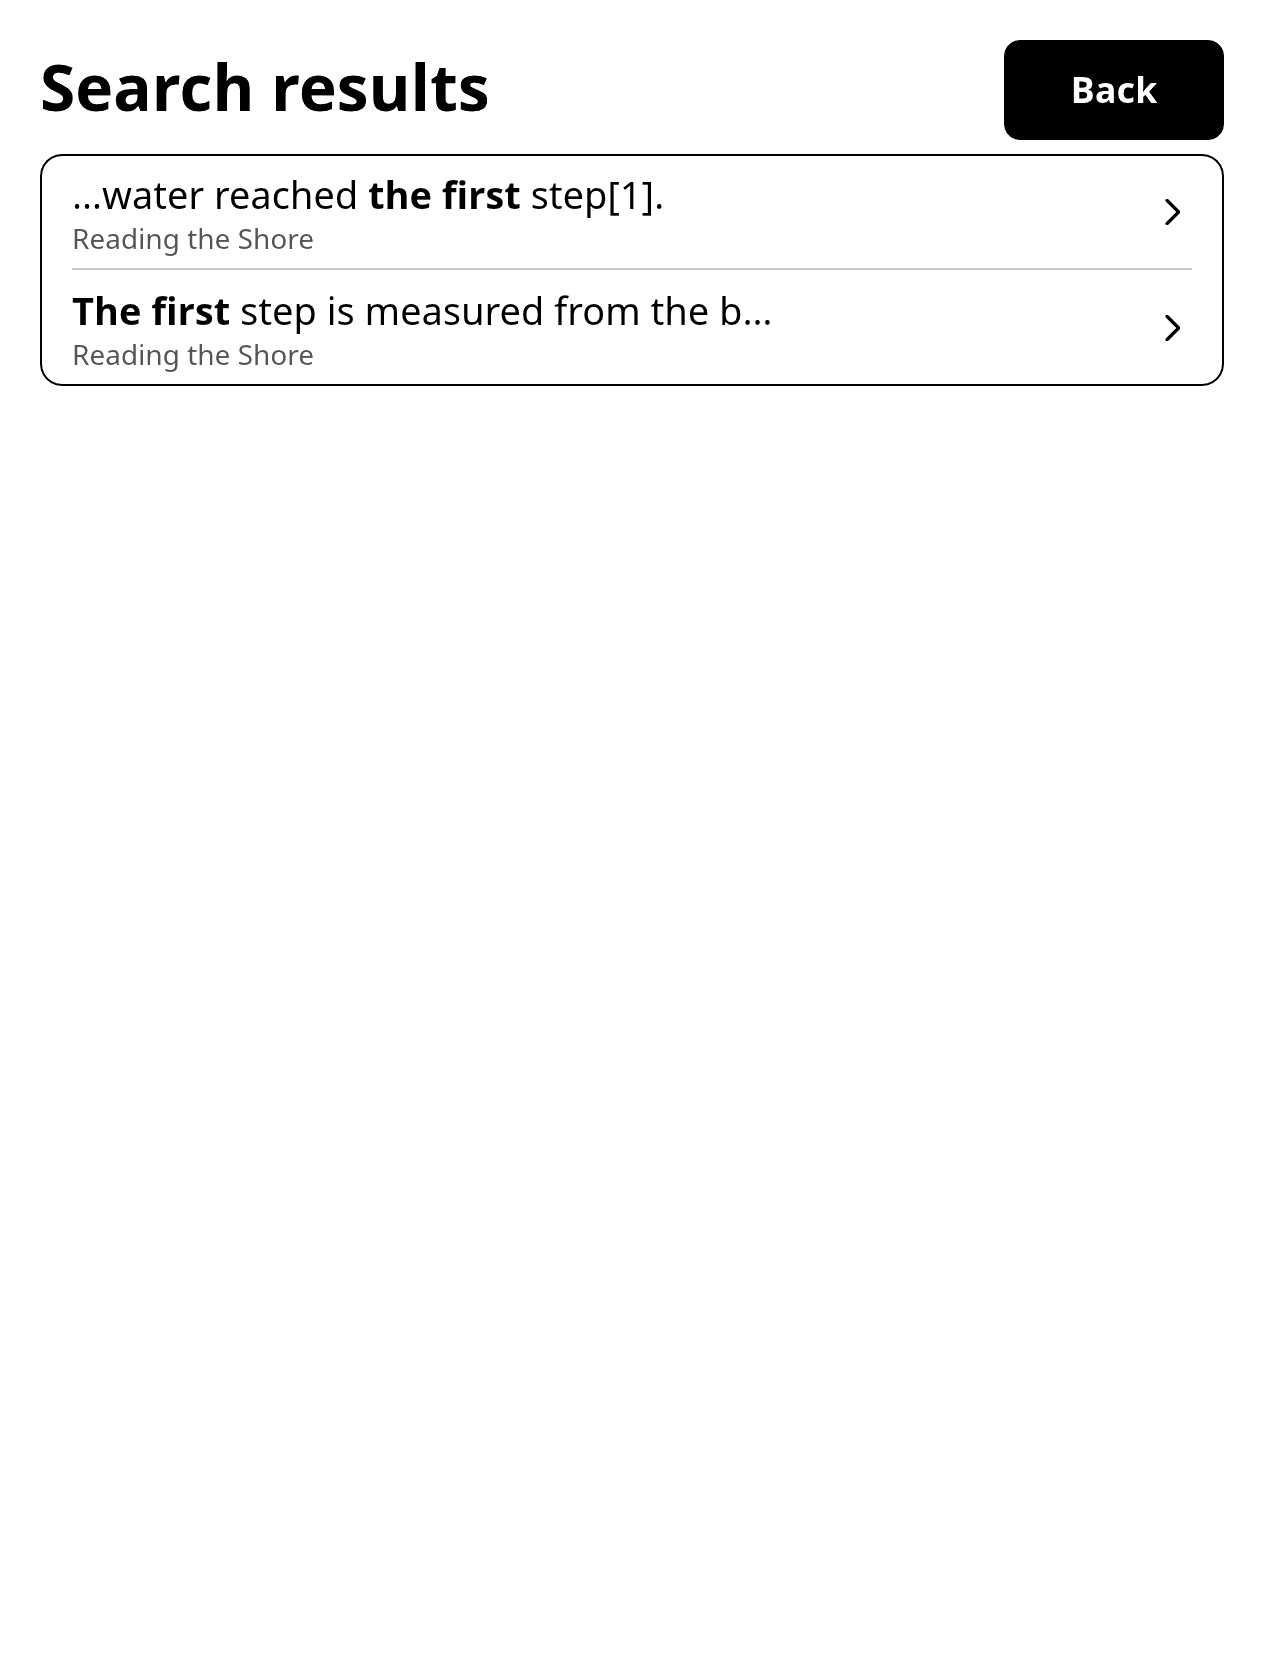
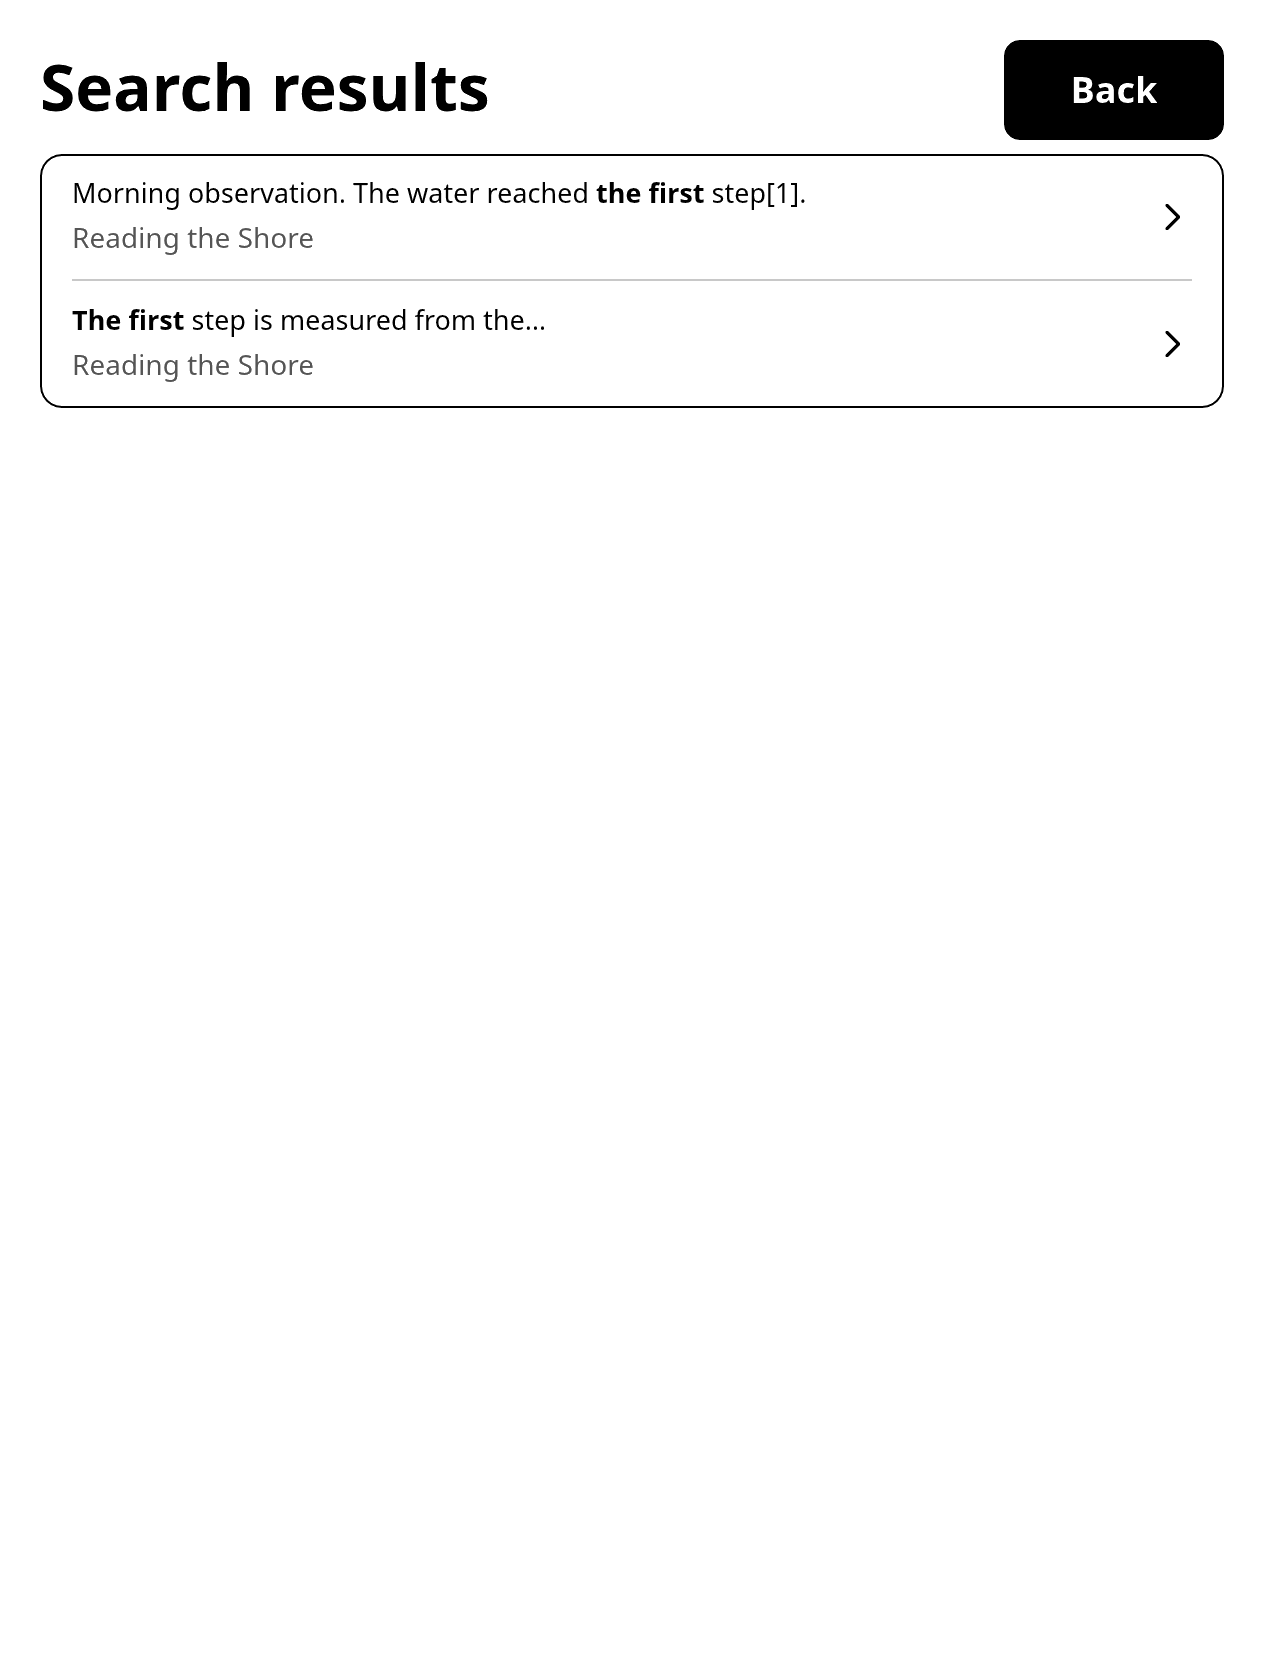
Record native Reader 0.1.32 search and rendering results

Changed region(s): [[0.0309, 0.0929, 0.6171, 0.2476]]

diff --git a/docs/real-document-verification.md b/docs/real-document-verification.md
@@ -240,6 +240,18 @@ The Mac run passed 1,040 Reader library tests, one Kindle binary test,
 Reader tests. The [stock search callback check](fixed-search-fit.md)
 also passed in the installed KOReader's runtime on the Oasis.
 
+The native ARMHF run passed 1,044 Reader library tests, 14 EPUB package tests,
+and four layout checks. It skipped 62 optional Reader tests. A follow-up on
+one original EPUB and one original PDF held a result, opened its exact source
+location, and returned to the original reading position. Each used an
+isolated profile and the original file checksum matched before and after.
+
+The suite saved eight 1264 × 1680 software-rendered frames. Six matched the
+desktop captures exactly and the 24-row search view differed by six pixels.
+The selected-text results screenshot now shows the device's integrated row
+geometry and context. The prior desktop image predated those changes. These
+checks do not measure foreground touch or E Ink refresh.
+
 For a single file under an authorized Documents root, run the example with a fresh
 scratch directory and the same Noto Sans fonts as Launcher.
 

diff --git a/docs/selection-search.md b/docs/selection-search.md
@@ -11,4 +11,4 @@ the width, pan, rotation and saved view of a zoomed fixed-page book. The EPUB
 and PDF workflow tests select text through the reading screen and check
 both search modes, cancellation, and persisted settings.
 
-[Selection search results](screenshots/search-from-selection-results.png) · [KOReader selection dispatch](https://github.com/koreader/koreader/blob/9192014d8bd82a91dc1012473be0f238dedfdb54/frontend/apps/reader/modules/readersearch.lua#L240-L266)
+[Selection search results on the Oasis](screenshots/search-from-selection-results.png) · [KOReader selection dispatch](https://github.com/koreader/koreader/blob/9192014d8bd82a91dc1012473be0f238dedfdb54/frontend/apps/reader/modules/readersearch.lua#L240-L266)
